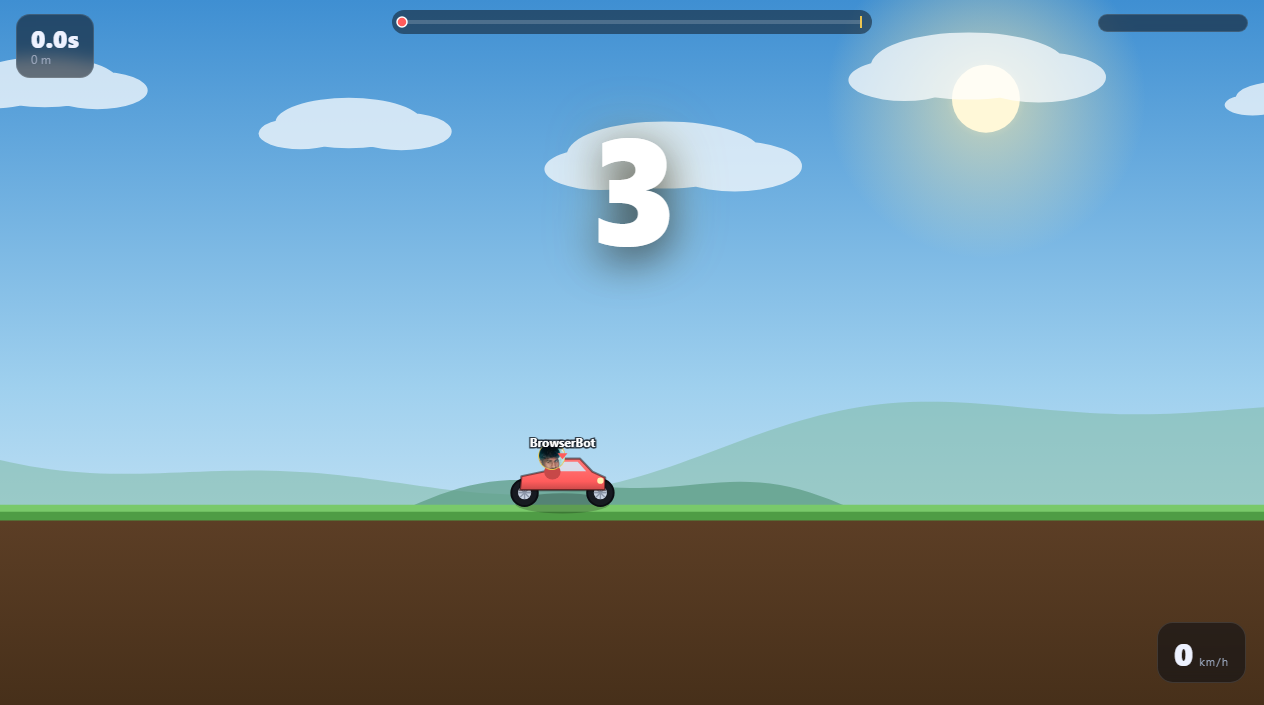
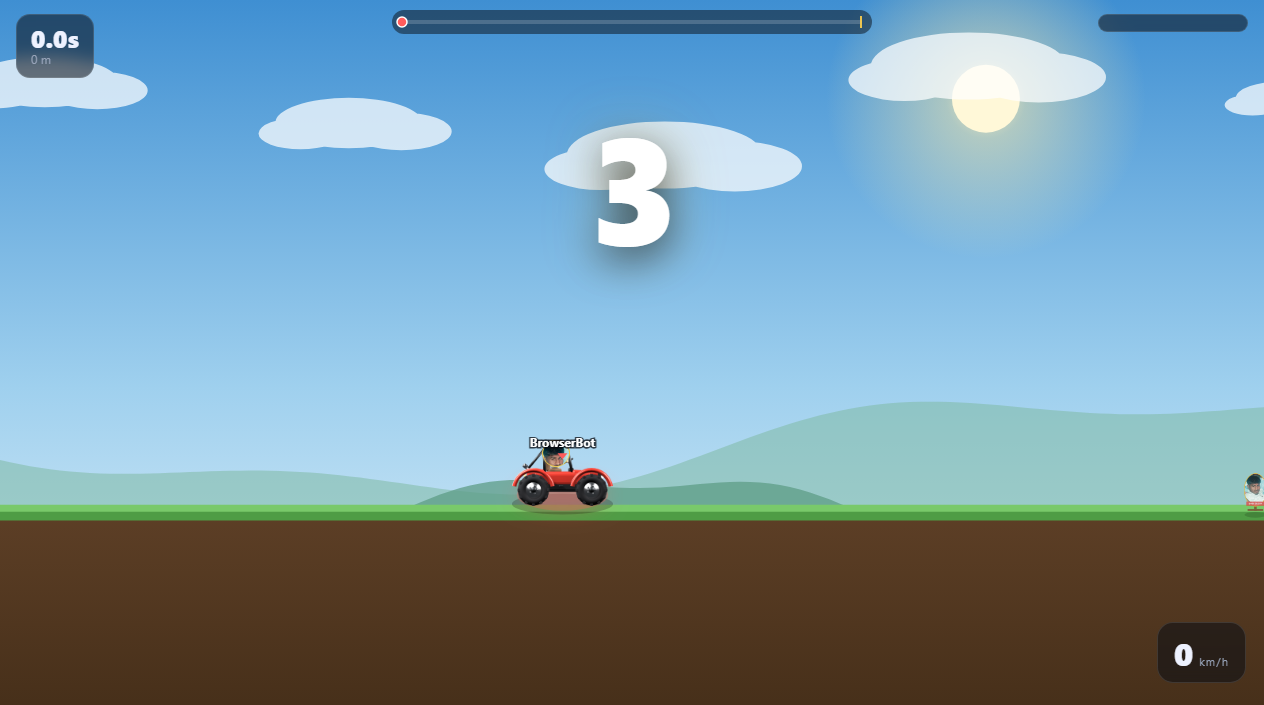
Use the Blender car render as the in-game car sprite

Changed region(s): [[0.4011, 0.6241, 0.4937, 0.7489], [0.9873, 0.6553, 1.0, 0.7489]]

diff --git a/public/main.js b/public/main.js
@@ -14,6 +14,20 @@ charFace.src = '/assets/character_face.png';
 const charStandee = new Image();
 charStandee.src = '/assets/character_standee.png';
 
+// Orthographic side render of the user's Blender car (hillclimb_car.blend),
+// cropped to its alpha bounds. The numbers below are the model's own world
+// extents, so the sprite can be placed exactly on the physics footprint.
+const carSide = new Image();
+carSide.src = '/assets/car_side.png';
+
+const CAR_SPRITE = {
+  worldW: 3.5315, // model Y extent of the cropped render
+  worldH: 2.0405, // model Z extent of the cropped render
+  scale: 0.9, // game units per model unit
+  ground: 0.78, // wheel contact sits this far below the chassis centre
+  head: { y: -0.23, z: 1.86 }, // driver head centre in model space
+};
+
 const imgReady = (img) => img.complete && img.naturalWidth > 0;
 
 const ui = {
@@ -932,12 +946,60 @@ function drawCar(entry, c) {
   ctx.globalAlpha = 0.22;
   ctx.fillStyle = '#000';
   ctx.beginPath();
-  ctx.ellipse(0, 0.7, 1.5, 0.32, angle * 0.4, 0, TAU);
+  ctx.ellipse(0, 0.72, 1.6, 0.33, angle * 0.4, 0, TAU);
   ctx.fill();
   ctx.restore();
 
   ctx.rotate(angle);
 
+  if (imgReady(carSide)) {
+    drawCarSprite(entry);
+  } else {
+    drawCarVector(entry, wheelRot);
+  }
+
+  // driver — the uploaded character rides along in every car
+  const sprite = imgReady(carSide);
+  const headX = sprite ? CAR_SPRITE.head.y * CAR_SPRITE.scale : -0.34;
+  const headY = sprite ? CAR_SPRITE.ground - CAR_SPRITE.head.z * CAR_SPRITE.scale : -0.8;
+  const headR = 0.43;
+
+  if (imgReady(charFace)) {
+    ctx.drawImage(charFace, headX - headR, headY - headR, headR * 2, headR * 2);
+  } else {
+    ctx.beginPath();
+    ctx.arc(headX, headY, 0.17, 0, TAU);
+    ctx.fillStyle = '#f2c9a0';
+    ctx.fill();
+    ctx.beginPath();
+    ctx.arc(headX, headY - 0.06, 0.17, Math.PI, TAU);
+    ctx.fillStyle = shade(entry.color, 0.7);
+    ctx.fill();
+  }
+
+  ctx.restore();
+}
+
+function drawCarSprite(entry) {
+  const w = CAR_SPRITE.worldW * CAR_SPRITE.scale;
+  const h = CAR_SPRITE.worldH * CAR_SPRITE.scale;
+  const bottom = CAR_SPRITE.ground;
+
+  // player-coloured aura keeps four identical-looking cars distinguishable
+  ctx.save();
+  ctx.globalAlpha = 0.3;
+  ctx.fillStyle = entry.color;
+  ctx.shadowColor = entry.color;
+  ctx.shadowBlur = 20;
+  ctx.beginPath();
+  ctx.ellipse(0, bottom - 0.35, 1.45, 0.5, 0, 0, TAU);
+  ctx.fill();
+  ctx.restore();
+
+  ctx.drawImage(carSide, -w / 2, bottom - h, w, h);
+}
+
+function drawCarVector(entry, wheelRot) {
   // wheels
   for (const wx of [-1.2, 1.2]) {
     ctx.save();
@@ -1000,37 +1062,11 @@ function drawCar(entry, c) {
   ctx.fillStyle = 'rgba(210,240,255,0.85)';
   ctx.fill();
 
-  // driver — the uploaded character rides along in every car
-  const headX = -0.34;
-  const headY = -0.8;
-  const headR = 0.43;
-
-  // shoulders poking out of the cockpit
-  ctx.beginPath();
-  ctx.ellipse(headX + 0.02, -0.3, 0.26, 0.24, 0, 0, TAU);
-  ctx.fillStyle = shade(entry.color, 0.78);
-  ctx.fill();
-
-  if (imgReady(charFace)) {
-    ctx.drawImage(charFace, headX - headR, headY - headR, headR * 2, headR * 2);
-  } else {
-    ctx.beginPath();
-    ctx.arc(headX, headY, 0.17, 0, TAU);
-    ctx.fillStyle = '#f2c9a0';
-    ctx.fill();
-    ctx.beginPath();
-    ctx.arc(headX, headY - 0.06, 0.17, Math.PI, TAU);
-    ctx.fillStyle = shade(entry.color, 0.7);
-    ctx.fill();
-  }
-
   // headlight
   ctx.beginPath();
   ctx.arc(1.2, -0.02, 0.1, 0, TAU);
   ctx.fillStyle = '#fff3b0';
   ctx.fill();
-
-  ctx.restore();
 }
 
 function drawTag(entry, c) {
@@ -1152,4 +1188,11 @@ function renderMenuBackdrop(now) {
 requestAnimationFrame(frame);
 
 // Small hook so tools/browser-test.js can check what is drawn where.
-window.__hc = { state, w2s, headOffset: { x: -0.34, y: -0.8 } };
+window.__hc = {
+  state,
+  w2s,
+  headOffset: {
+    x: CAR_SPRITE.head.y * CAR_SPRITE.scale,
+    y: CAR_SPRITE.ground - CAR_SPRITE.head.z * CAR_SPRITE.scale,
+  },
+};

diff --git a/tools/browser-test.js b/tools/browser-test.js
@@ -209,6 +209,25 @@ try {
       }
     }
 
+    let bodyRed = 0;
+    if (car) {
+      const [ax, ay] = hc.w2s(car.x - 1.9, car.y - 1.3);
+      const [bx, by] = hc.w2s(car.x + 1.9, car.y + 0.9);
+      const x0 = Math.max(0, Math.round(ax * dpr));
+      const x1 = Math.min(c.width - 1, Math.round(bx * dpr));
+      const y0 = Math.max(0, Math.round(ay * dpr));
+      const y1 = Math.min(c.height - 1, Math.round(by * dpr));
+      for (let y = y0; y <= y1; y++) {
+        for (let x = x0; x <= x1; x++) {
+          const i = (y * c.width + x) * 4;
+          const R = all[i];
+          const G = all[i + 1];
+          const B = all[i + 2];
+          if (R > 110 && R > G + 45 && R > B + 45) bodyRed++;
+        }
+      }
+    }
+
     const mascot = document.querySelector('.mascot');
     return {
       sky: px(c.width * 0.15, c.height * 0.06),
@@ -218,6 +237,7 @@ try {
       headGold,
       headDark,
       headPixels,
+      bodyRed,
       mascotLoaded: !!(mascot && mascot.complete && mascot.naturalWidth > 0)
     };
   })()`);
@@ -226,7 +246,8 @@ try {
   const skyOk = sb > sr && sb > 100;
   const groundOk = gr > gb && gr > 40;
   const characterOk = pixels.mascotLoaded && pixels.headGold > 20 && pixels.headDark > 30;
-  console.log('pixels:', { skyOk, groundOk, characterOk, head: pixels.head, headGold: pixels.headGold, headDark: pixels.headDark, mascotLoaded: pixels.mascotLoaded, sky: pixels.sky, ground: pixels.ground });
+  const carOk = pixels.bodyRed > 200;
+  console.log('pixels:', { skyOk, groundOk, characterOk, carOk, bodyRed: pixels.bodyRed, head: pixels.head, headGold: pixels.headGold, headDark: pixels.headDark, mascotLoaded: pixels.mascotLoaded, sky: pixels.sky, ground: pixels.ground });
 
   await send('Input.dispatchKeyEvent', {
     type: 'keyUp',
@@ -247,6 +268,7 @@ try {
     skyOk &&
     groundOk &&
     characterOk &&
+    carOk &&
     errors.length === 0;
   console.log(ok ? 'BROWSER OK' : 'BROWSER FAILED');
   process.exitCode = ok ? 0 : 1;

diff --git a/README.md b/README.md
@@ -13,6 +13,7 @@ A 2&ndash;4 player hill-climb racer that runs in the browser. One shared, proced
 - **Live HUD** &mdash; race timer, distance, speed, positions and a minimap
 - **Touch controls** for phones, keyboard for desktop
 - **Custom character art** &mdash; the uploaded avatar rides in every car and lines the track as roadside spectators (`public/assets/`)
+- **Your own car model** &mdash; the car is an orthographic side render of `hillclimb_car.blend`, scaled onto the physics wheelbase
 - No frameworks, no build step for local play
 
 ## Run it
